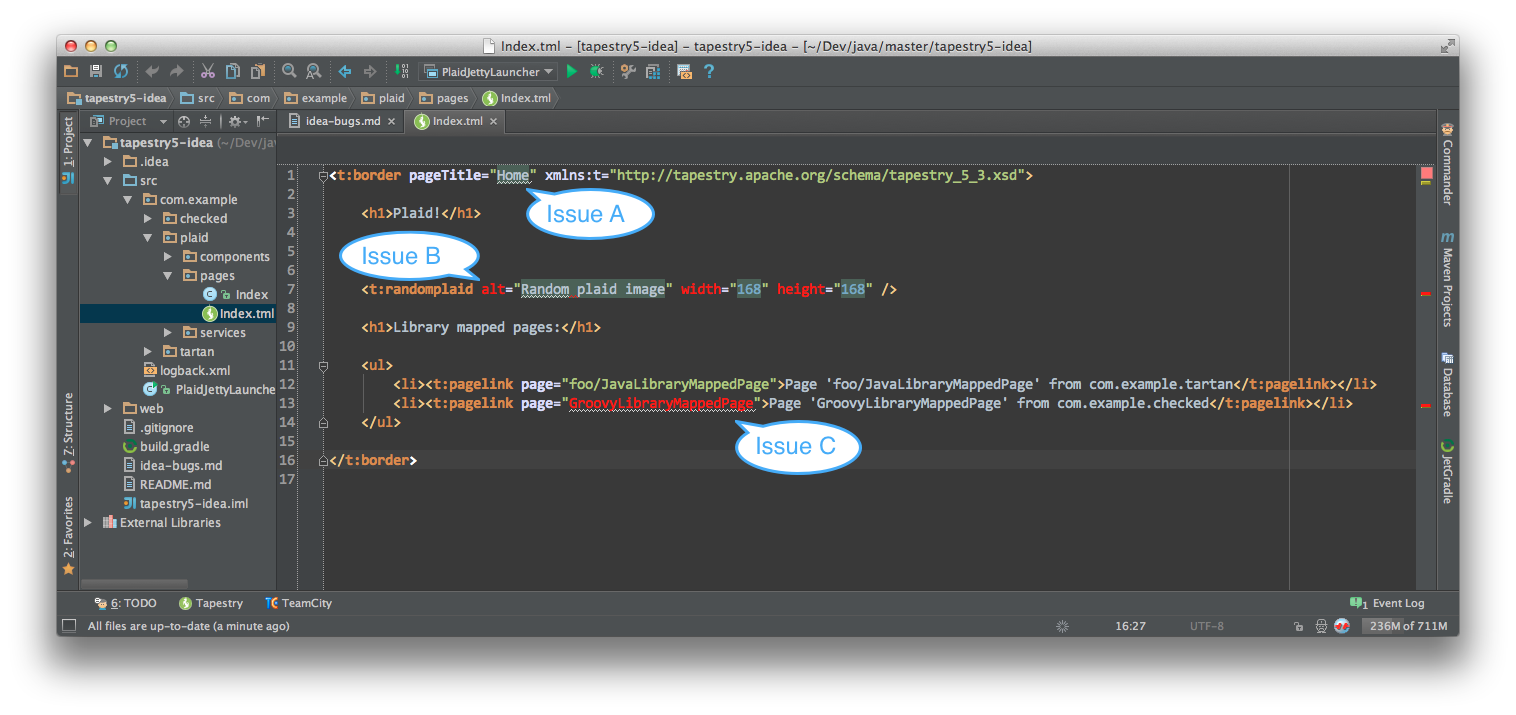
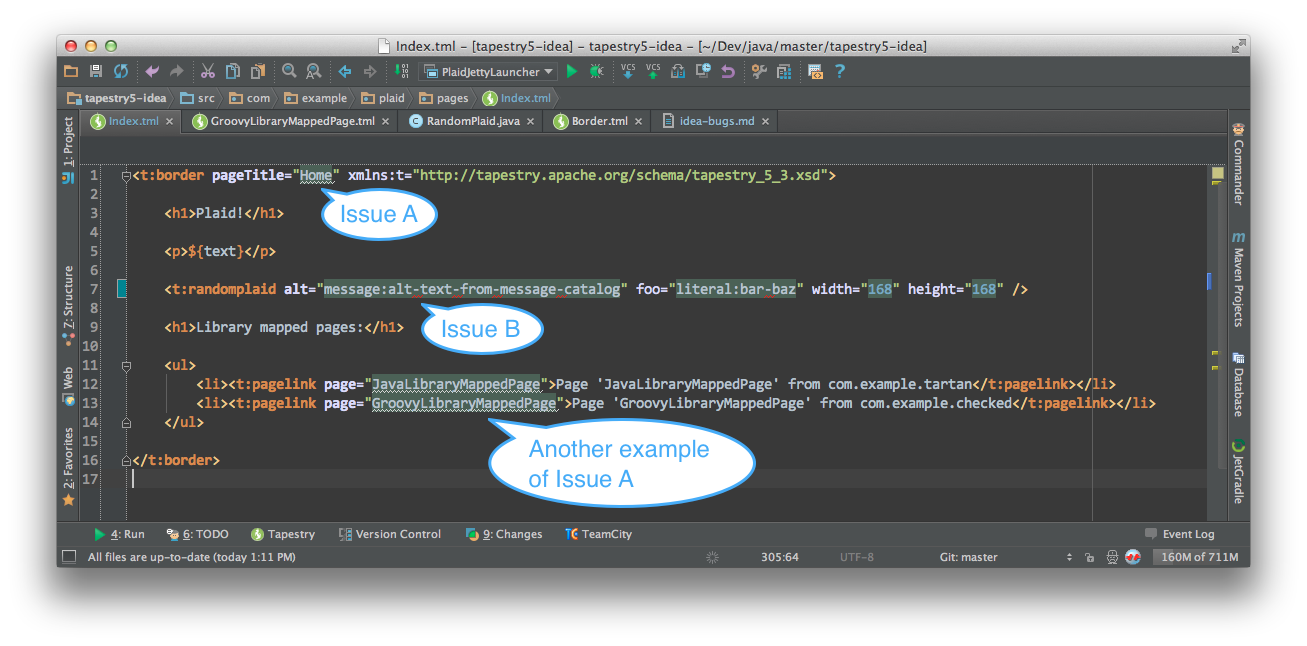
add red squiggly error

Changed region(s): [[0.0306, 0.031, 0.9793, 0.9288]]

diff --git a/idea-bugs.md b/idea-bugs.md
@@ -2,21 +2,22 @@ Examples of Validation bugs in IntelliJ IDEA Tapestry 5 Plugin
 ==============================================================
 Current as of IDEA 12.0.3 (#IU-123.155)
 
-![Bugs Screenshot 1](https://github.com/Widen/tapestry5-idea/raw/master/bugs-screenshot-1.png)
+![Bugs Screenshot 1](bugs-screenshot-1.png)
 
 Issue A
 -------
- - /com/example/plaid/pages/Index.tml, line 1 (pageTitle="Home")
- - /com/example/plaid/pages/Index.tml, line 7 (alt="Random plaid image")
- - Error Message: Cannot resolve property 'Home' of class 'Index'
- - Bug: `defaultPrefix = literal` on @Parameter is not supported
- - Workaround: Change __pageTitle="Home" --> pageTitle="literal:Home"__ (prefix with binding)
+ - __Error Message:__ `Cannot resolve property 'Home' of class 'Index'`
+ - Bug: `defaultPrefix = literal` on `@Parameter` is not supported
+ - Workaround: Change __pageTitle="Home" ---> pageTitle="literal:Home"__ (prefix with specific `literal` binding)
  - Tracker: [IDEA-98955](http://youtrack.jetbrains.com/issue/IDEA-98955)
 
 Issue B
 -------
- - Tracker: [IDEA-52763](http://youtrack.jetbrains.com/issue/IDEA-52763) __fixed in IDEA 12.0.3 (build >= 123.155)__
+ - Bug: Incorrect red squiggly error line below "-" (dash) characters in TML tag attributes
+ - Workaround: None
+ - Tracker: [IDEA-100346](http://youtrack.jetbrains.com/issue/IDEA-100346)
 
-Issue C
--------
+Resolved Issues
+---------------
+ - Tracker: [IDEA-52763](http://youtrack.jetbrains.com/issue/IDEA-52763) __fixed in IDEA 12.0.3 (build >= 123.155)__
  - Tracker: [IDEA-24697](http://youtrack.jetbrains.com/issue/IDEA-24697) __fixed in IDEA 12.0.3 (build >= 123.155)__
